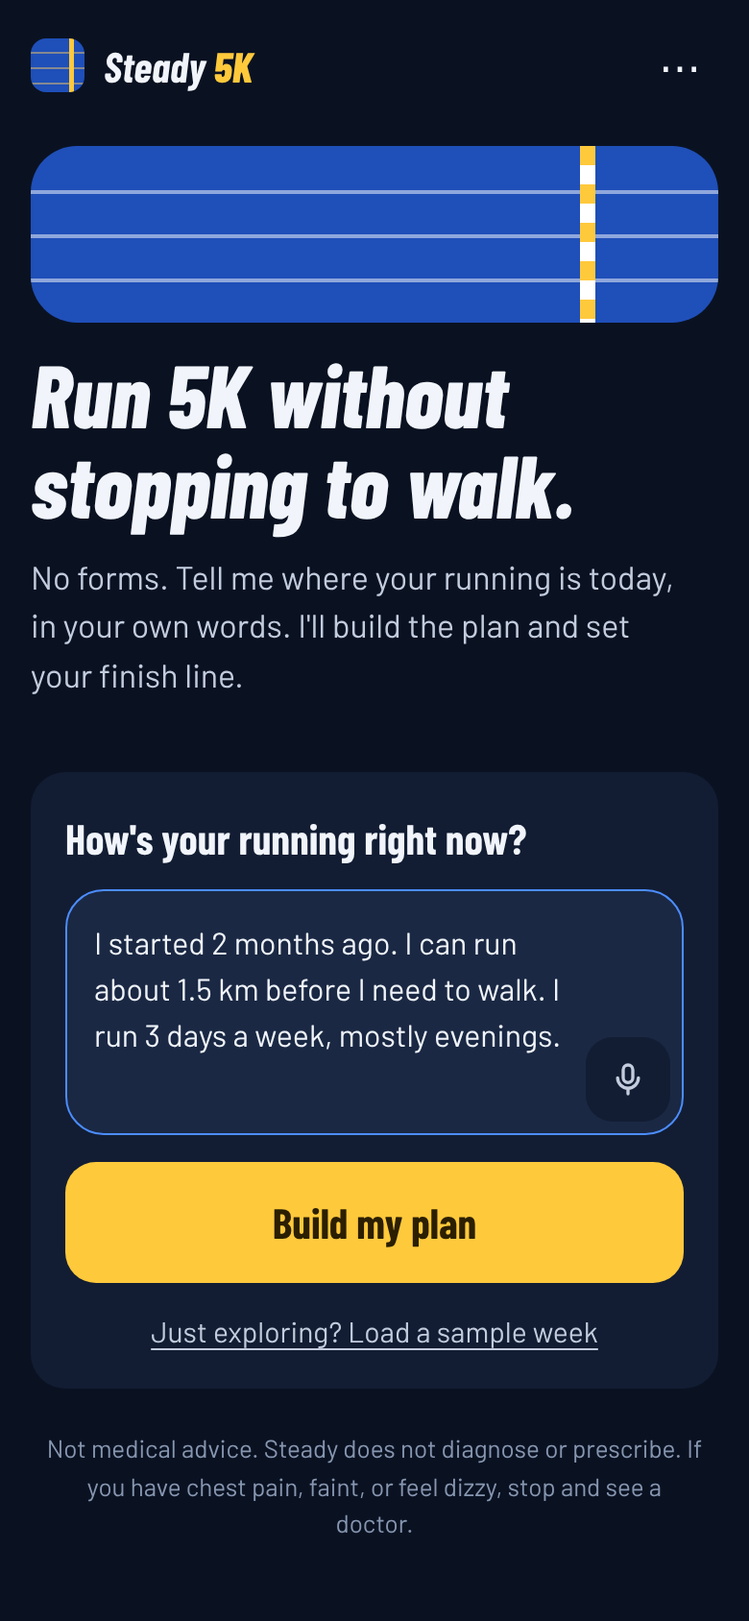
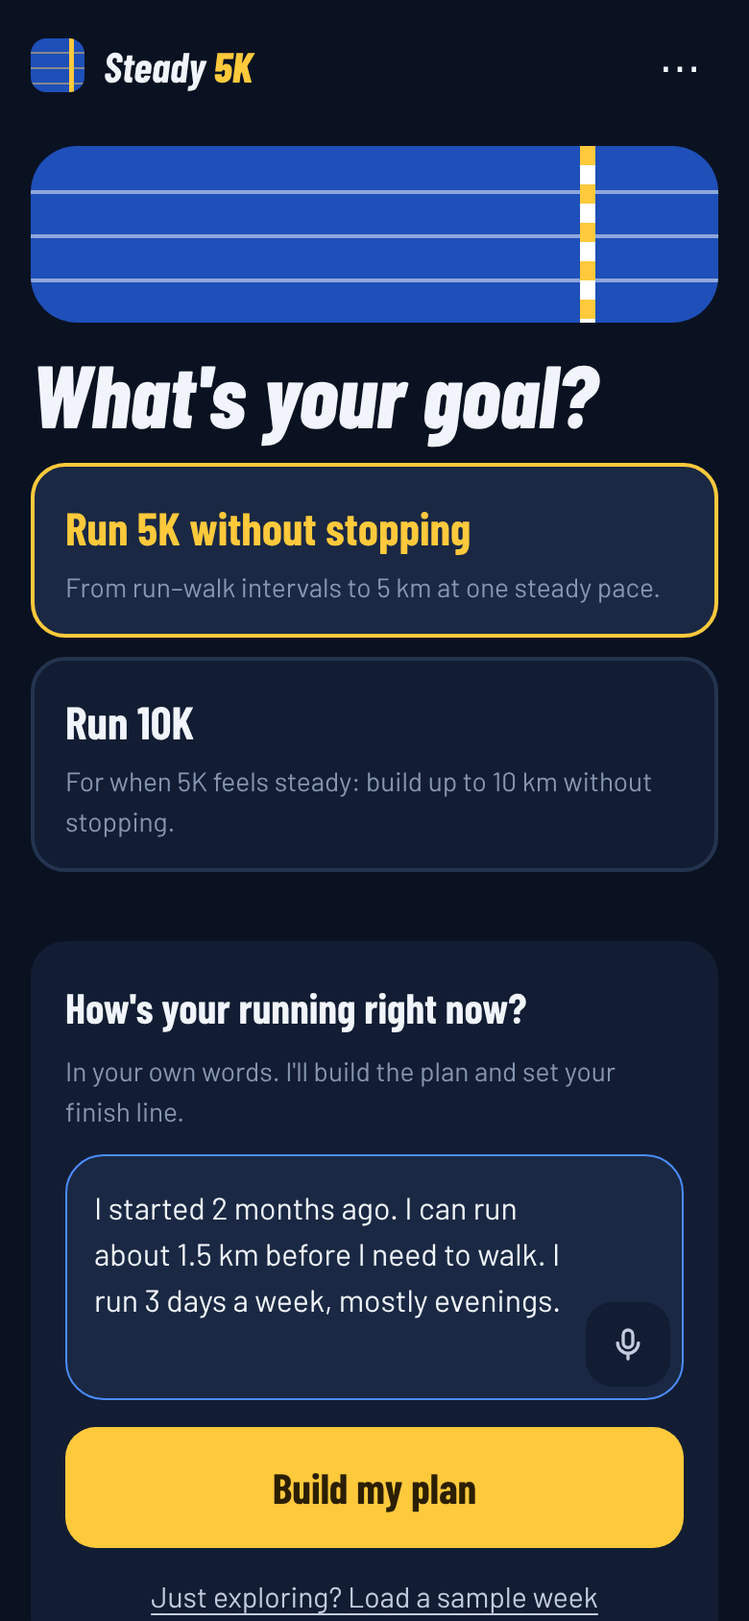
Goals: pick 5K non-stop or 10K at setup, save each goal's progress, choose a goal on return; 10K plan ladder
Claude-Session: https://claude.ai/code/session_01KnAXkYM5bv2tZhbofiWiib

diff --git a/app.js b/app.js
@@ -3,19 +3,34 @@
 (() => {
   'use strict';
 
-  // ---------- Plan ladder (written for this project) ----------
-  const STEPS = [
-    null,
-    { run: 1, walk: 1.5, reps: 8 }, { run: 1.5, walk: 1.5, reps: 7 }, { run: 2, walk: 1.5, reps: 6 },
-    { run: 3, walk: 1.5, reps: 5 }, { run: 4, walk: 1.5, reps: 4 }, { run: 5, walk: 1, reps: 4 },
-    { run: 7, walk: 1, reps: 3 }, { run: 9, walk: 1, reps: 3 }, { run: 12, walk: 1, reps: 2 },
-    { run: 15, walk: 1, reps: 2 }, { nonstop: '20 min' }, { nonstop: '25 min' }, { nonstop: '5 km' },
-  ];
-  const LAST = 13;
+  // ---------- Goals and their plan ladders (written for this project) ----------
+  // Rizwan's own words: "run a full 5K at a single, steady pace without stopping… eventually stretch it to 10K."
+  const GOALS = {
+    '5k': {
+      title: 'Run 5K without stopping', short: '5K non-stop', tape: '5K',
+      blurb: 'From run–walk intervals to 5 km at one steady pace.',
+      steps: [null,
+        { run: 1, walk: 1.5, reps: 8 }, { run: 1.5, walk: 1.5, reps: 7 }, { run: 2, walk: 1.5, reps: 6 },
+        { run: 3, walk: 1.5, reps: 5 }, { run: 4, walk: 1.5, reps: 4 }, { run: 5, walk: 1, reps: 4 },
+        { run: 7, walk: 1, reps: 3 }, { run: 9, walk: 1, reps: 3 }, { run: 12, walk: 1, reps: 2 },
+        { run: 15, walk: 1, reps: 2 }, { nonstop: '20 min' }, { nonstop: '25 min' },
+        { nonstop: '5 km', final: true, mins: 35, km: 5 }],
+    },
+    '10k': {
+      title: 'Run 10K', short: '10K', tape: '10K',
+      blurb: 'For when 5K feels steady: build up to 10 km without stopping.',
+      steps: [null,
+        { nonstop: '30 min' }, { nonstop: '35 min' }, { nonstop: '40 min' }, { nonstop: '45 min' },
+        { nonstop: '50 min' }, { nonstop: '55 min' }, { nonstop: '60 min' },
+        { nonstop: '10 km', final: true, mins: 70, km: 10 }],
+    },
+  };
+  let GOAL = GOALS['5k'], STEPS = GOAL.steps, LAST = STEPS.length - 1;
+  function useGoal(id) { GOAL = GOALS[id] || GOALS['5k']; STEPS = GOAL.steps; LAST = STEPS.length - 1; }
   const SESSIONS_PER_STEP = 2;
   const stepText = (n) => {
     const s = STEPS[n];
-    if (s.nonstop) return n === LAST ? 'Run 5 km without stopping 🏁' : `Run ${s.nonstop} without stopping`;
+    if (s.nonstop) return s.final ? `Run ${s.nonstop} without stopping 🏁` : `Run ${s.nonstop} without stopping`;
     return `Run ${s.run} min · walk ${s.walk} min × ${s.reps}`;
   };
 
@@ -30,7 +45,13 @@
   const KEY = 'steady5k:v1';
   const load = () => { try { return JSON.parse(localStorage.getItem(KEY)) || null; } catch { return null; } };
   let S = load();
-  const save = () => { try { localStorage.setItem(KEY, JSON.stringify(S)); } catch {} };
+  // Each saved goal keeps its own place in its plan; check-ins (food, water, sleep) are shared.
+  const GOAL_FIELDS = ['step', 'atStep', 'runsPerWeek', 'done', 'nextRest', 'lastChangeDay', 'created', 'intro'];
+  function stash() { if (!S || !S.goal) return; S.goals = S.goals || {}; S.goals[S.goal] = Object.fromEntries(GOAL_FIELDS.map((k) => [k, S[k]])); }
+  function activate(id) { stash(); Object.assign(S, S.goals[id]); S.goal = id; useGoal(id); save(); }
+  if (S && !S.goal) { S.goal = '5k'; stash(); } // older saves had one goal
+  if (S) useGoal(S.goal);
+  const save = () => { try { stash(); localStorage.setItem(KEY, JSON.stringify(S)); } catch {} };
 
   // ---------- Helpers ----------
   const $ = (id) => document.getElementById(id);
@@ -131,7 +152,8 @@
     const recent = S.logs.slice(-4).map((l) => ({ date: l.date, said: l.text.slice(0, 200), action: l.parsed?.plan_action, red_flag: l.parsed?.red_flag }));
     return {
       today: dayKey(), time: new Date().toTimeString().slice(0, 5),
-      next_session: S.nextRest ? 'Rest day' : stepText(S.step), plan_step: `${S.step}/13`, sessions_done_at_step: `${S.atStep}/${SESSIONS_PER_STEP}`,
+      goal: GOAL.title, plan_ladder: STEPS.slice(1).map((_, i) => `${i + 1} ${stepText(i + 1)}`).join('; '),
+      next_session: S.nextRest ? 'Rest day' : stepText(S.step), plan_step: `${S.step}/${LAST}`, sessions_done_at_step: `${S.atStep}/${SESSIONS_PER_STEP}`,
       ramadan_mode: S.ramadan, days_since_last_run: daysSinceRun(), runs_per_week: S.runsPerWeek,
       paused_for_red_flag: !!S.redFlag, recent_checkins: recent,
     };
@@ -169,7 +191,7 @@
   // ---------- Full session breakdown (general guidance, not medical advice) ----------
   function sessionMinutes(n) {
     const s = STEPS[n];
-    if (s.nonstop) return n === LAST ? 35 : parseInt(s.nonstop, 10);
+    if (s.nonstop) return s.mins || parseInt(s.nonstop, 10);
     return Math.round(s.reps * (s.run + s.walk) - s.walk);
   }
   function sessionPlan(n, mode) {
@@ -199,7 +221,7 @@
     const s = STEPS[n];
     const main = s.nonstop
       ? [
-          n === LAST ? 'Run 5 km at one steady, easy pace. Start slower than you think you need to.' : `Run ${s.nonstop} without stopping, at an easy pace.`,
+          s.final ? `Run ${s.nonstop} at one steady, easy pace. Start slower than you think you need to.` : `Run ${s.nonstop} without stopping, at an easy pace.`,
           'Easy pace = you can still speak in short sentences. If you can only gasp single words, slow down.',
           'If you really must walk, walk 1 minute and then carry on. It still counts.',
         ]
@@ -218,17 +240,10 @@
     return warm + block('Main run', `${sessionMinutes(n)} min`, main) + cool + `<div class="blk tips"><b>Tips</b><ul>${li(tips)}</ul></div>`;
   }
 
-  function progressNote() {
-    const left = SESSIONS_PER_STEP - S.atStep;
-    const runs = left === 1 ? 'One more good run' : `${left} good runs`;
-    if (S.step === LAST) return `Last step: run 5 km without stopping and you have reached the finish line. Planned for ${S.runsPerWeek} runs a week.`;
-    return `You are on step ${S.step} of 13. ${runs} at this step and you move up to step ${S.step + 1}. Planned for ${S.runsPerWeek} runs a week.`;
-  }
-
   function stepHTML(n) {
     const st = STEPS[n];
     const fmt = (m) => `${Math.floor(m)}:${String(Math.round((m % 1) * 60)).padStart(2, '0')}`;
-    if (st.nonstop) return `<span class="sw"><b>${n === LAST ? '5 km' : st.nonstop}</b><small>without stopping</small></span>`;
+    if (st.nonstop) return `<span class="sw"><b>${st.nonstop}</b><small>without stopping</small></span>`;
     return `<span class="sw"><b>${fmt(st.run)}</b><small>run</small></span><span class="sw walk"><b>${fmt(st.walk)}</b><small>walk</small></span><span class="sw reps"><b>×${st.reps}</b><small>rounds</small></span>`;
   }
 
@@ -236,8 +251,9 @@
   let tab = 'today';
   function show(view) {
     $('onboard').hidden = view !== 'onboard';
+    $('goals').hidden = view !== 'goals';
     $('main').hidden = view !== 'main';
-    $('ramadanBtn').hidden = view === 'onboard';
+    $('ramadanBtn').hidden = view !== 'main';
   }
   function setTab(t) {
     tab = t;
@@ -251,7 +267,7 @@
   // Planned running distance for a step, at an easy beginner pace of about 7 min per km.
   function planKm(n) {
     const st = STEPS[n];
-    if (n === LAST) return 5;
+    if (st.final) return st.km;
     const mins = st.nonstop ? parseInt(st.nonstop, 10) : st.run * st.reps;
     return Math.max(1, Math.round((mins / 7) * 10) / 10);
   }
@@ -270,6 +286,7 @@
     show('main');
     $('ramadanBtn').setAttribute('aria-pressed', String(!!S.ramadan));
     $('dayLabel').textContent = new Date().toLocaleDateString('en-IN', { weekday: 'long', day: 'numeric', month: 'long' });
+    $('goalName').textContent = GOAL.title;
     $('flagBanner').hidden = !S.redFlag;
 
     // Rings: run, water, sleep
@@ -307,10 +324,12 @@
     $('ringText').textContent = S.step;
     $('marks').innerHTML = Array.from({ length: LAST }, (_, i) => `<i class="${i + 1 < S.step ? 'done' : i + 1 === S.step ? 'now' : ''}" style="left:${(i / (LAST - 1)) * 100}%"></i>`).join('');
     $('runner').style.setProperty('--x', pct + '%');
-    $('track').setAttribute('aria-label', `Step ${S.step} of 13 on the way to 5K`);
-    $('finishLead').textContent = S.done ? 'You did it:' : '5K non-stop by';
-    $('finishDate').textContent = S.done ? '5K non-stop' : fmtDate(targetDate());
-    $('finishNote').textContent = S.done ? 'Next goal: 10K. Ask the coach when you are ready.' : '';
+    $('track').setAttribute('aria-label', `Step ${S.step} of ${LAST} on the way to ${GOAL.short}`);
+    $('tapeLabel').textContent = GOAL.tape;
+    $('ladderTitle').textContent = `All ${LAST} steps`;
+    $('finishLead').textContent = S.done ? 'You did it:' : `${GOAL.short} by`;
+    $('finishDate').textContent = S.done ? GOAL.short : fmtDate(targetDate());
+    $('finishNote').textContent = S.done ? (S.goal === '5k' ? 'Next goal: 10K. Add it from your goals.' : 'Keep running for fun, and pick a new goal when you like.') : '';
     $('finishNote').hidden = !S.done;
     $('planLabel').textContent = S.redFlag ? 'Paused' : S.nextRest ? 'Rest day' : `Next run: ${stepText(S.step)}`;
     $('nextPlan').innerHTML = S.redFlag ? '<p class="small">No session until you have seen a doctor about the warning sign, or you feel completely fine.</p>'
@@ -348,13 +367,46 @@
   }
 
   // ---------- Actions ----------
+  // ---------- Goals: pick, save, switch ----------
+  let pickedGoal = '5k';
+  function renderGoalChoice() {
+    $('goalChoice').innerHTML = Object.entries(GOALS).map(([id, g]) => {
+      const have = S?.goals?.[id];
+      return `<button class="goal-opt" role="radio" aria-checked="${id === pickedGoal}" data-goal="${id}" ${have ? 'disabled' : ''}>
+        <b>${g.title}</b><span>${have ? 'Already one of your goals' : g.blurb}</span></button>`;
+    }).join('');
+  }
+  function openSetup() {
+    const free = Object.keys(GOALS).find((id) => !S?.goals?.[id]);
+    if (!free) { toast('You already have both goals saved.'); return; }
+    pickedGoal = free; renderGoalChoice();
+    $('onBack').hidden = !S; $('onSample').hidden = !!S;
+    $('onText').value = '';
+    show('onboard'); window.scrollTo(0, 0);
+  }
+  function renderGoals() {
+    show('goals');
+    $('goalList').innerHTML = Object.entries(S.goals).map(([id, g]) => {
+      useGoal(id);
+      const st = S.goal === id ? S : g;
+      const prog = st.done ? 'Finished 🏁' : `Step ${st.step} of ${LAST}`;
+      return `<button class="goal-card" data-goal="${id}"><span class="g-tape">${GOALS[id].tape}</span><span class="g-text"><b>${GOALS[id].title}</b><span>${prog}</span></span><span class="g-go" aria-hidden="true">›</span></button>`;
+    }).join('');
+    useGoal(S.goal);
+    $('addGoal').hidden = Object.keys(GOALS).every((id) => S.goals[id]);
+  }
+
   async function onboard() {
     const text = $('onText').value.trim();
     if (!text) { toast('Tell me a little about your running first.'); return; }
     $('onGo').disabled = true; $('onGo').textContent = 'Building your plan…';
-    const r = await ai('onboard', text, { today: dayKey() });
-    S = { v: 1, created: dayKey(), step: clamp(+r.start_step || 3, 1, LAST), atStep: 0, runsPerWeek: clamp(+r.runs_per_week || 3, 2, 5), ramadan: !!r.ramadan, logs: [], intro: text };
-    save();
+    useGoal(pickedGoal);
+    const r = await ai('onboard', text, { today: dayKey(), goal: GOAL.title, plan_ladder: STEPS.slice(1).map((_, i) => `${i + 1} ${stepText(i + 1)}`).join('; ') });
+    const fresh = { step: clamp(+r.start_step || 1, 1, LAST), atStep: 0, runsPerWeek: clamp(+r.runs_per_week || 3, 2, 5), done: false, nextRest: false, lastChangeDay: null, created: dayKey(), intro: text };
+    if (!S) S = { v: 2, logs: [], ramadan: !!r.ramadan, goals: {} };
+    else stash();
+    S.goals[pickedGoal] = fresh;
+    Object.assign(S, fresh); S.goal = pickedGoal;
     $('onGo').disabled = false; $('onGo').textContent = 'Build my plan';
     S.morning = { date: dayKey(), message: r.reply || `Plan ready. Start with: ${stepText(S.step)}.` }; save();
     renderToday(); setTab('today');
@@ -392,7 +444,7 @@
     const d = (n) => dayKey(addDays(new Date(), -n));
     const L = (n, text, log, reply, action) => ({ date: d(n), at: Date.now() - n * 864e5, text, note: '', parsed: { log: { meals: [], symptoms: [], ...log }, reply, plan_action: action, red_flag: false } });
     S = {
-      v: 1, created: d(6), step: 5, atStep: 1, runsPerWeek: 3, ramadan: false, sample: true,
+      v: 2, goal: '5k', goals: {}, created: d(6), step: 5, atStep: 1, runsPerWeek: 3, ramadan: false, sample: true,
       logs: [
         L(6, 'Ran 2k, walked 3 times. 2 bottles water. Slept 1am to 7am. Rice, dal, fish curry for lunch.', { run_km: 2, walk_breaks: 3, water_l: 2, sleep_h: 6, meals: [{ item: 'rice, dal, fish curry', kcal_low: 550, kcal_high: 800 }] }, 'Solid start. Try to get one more bottle of water in tomorrow.', 'repeat'),
         L(4, 'aaj 2.5k bhaga, 2 baar ruka, paani 3 bottle, 7 ghante soya', { run_km: 2.5, walk_breaks: 2, water_l: 3, sleep_h: 7 }, 'Fewer stops than last time. Good water day too.', 'up'),
@@ -400,6 +452,7 @@
         L(1, 'Ran 2.8k, back felt a bit stiff after. 2.5 L water.', { run_km: 2.8, water_l: 2.5, symptoms: ['back stiffness'] }, 'Good run. Keep tomorrow easy, and see a physio if the back stiffness keeps coming back.', 'repeat'),
       ],
     };
+    useGoal('5k');
     S.morning = { date: dayKey(), message: 'Back was stiff yesterday, so today is your normal session, nice and easy. Get 3 bottles of water in before evening.' };
     save(); $('menu').hidden = true; renderToday(); setTab('today'); morning(true);
   }
@@ -425,6 +478,11 @@
   // ---------- Wire up ----------
   $('onGo').addEventListener('click', onboard);
   $('onSample').addEventListener('click', loadSample);
+  $('goalChoice').addEventListener('click', (e) => { const b = e.target.closest('[data-goal]'); if (!b || b.disabled) return; pickedGoal = b.dataset.goal; renderGoalChoice(); });
+  $('onBack').addEventListener('click', () => { S.goals && Object.keys(S.goals).length > 1 ? renderGoals() : (renderToday(), setTab('today')); });
+  $('goalList').addEventListener('click', (e) => { const b = e.target.closest('[data-goal]'); if (!b) return; if (b.dataset.goal !== S.goal) { activate(b.dataset.goal); S.morning = null; } renderToday(); setTab('today'); morning(); });
+  $('addGoal').addEventListener('click', openSetup);
+  $('goalSwitch').addEventListener('click', renderGoals);
   $('ciSend').addEventListener('click', checkin);
   $('ciText').addEventListener('input', (e) => autoGrow(e.target));
   $('ciText').addEventListener('keydown', (e) => { if (e.key === 'Enter' && !e.shiftKey && !matchMedia('(pointer: coarse)').matches) { e.preventDefault(); checkin(); } });
@@ -448,7 +506,8 @@
   }
 
   function start() {
-    if (!S) { show('onboard'); return; }
+    if (!S) { pickedGoal = '5k'; renderGoalChoice(); $('onBack').hidden = true; $('onSample').hidden = false; show('onboard'); return; }
+    if (S.goals && Object.keys(S.goals).length > 1) { renderGoals(); return; } // more than one goal: ask which one today
     renderToday(); setTab('today'); morning();
   }
   start();

diff --git a/index.html b/index.html
@@ -31,12 +31,14 @@
     <!-- ONBOARDING -->
     <main id="onboard" class="view" hidden>
       <section class="hero">
+        <button id="onBack" class="btn-link back" hidden>Back</button>
         <div class="hero-lane" aria-hidden="true"><i></i><i></i><i></i><span class="hero-tape"></span></div>
-        <h1>Run 5K without stopping to walk.</h1>
-        <p class="lede">No forms. Tell me where your running is today, in your own words. I'll build the plan and set your finish line.</p>
+        <h1>What's your goal?</h1>
+        <div class="goal-choice" id="goalChoice" role="radiogroup" aria-label="Your goal"></div>
       </section>
       <section class="card">
         <label for="onText" class="label">How's your running right now?</label>
+        <p class="small field-hint">In your own words. I'll build the plan and set your finish line.</p>
         <div class="composer composer-lg">
           <textarea id="onText" rows="4" placeholder="e.g. I started 2 months ago, I can run about 1.5 km before I need to walk. I run 3 days a week, mostly evenings."></textarea>
           <button class="mic" data-target="onText" aria-label="Speak instead"><svg viewBox="0 0 24 24" width="20" height="20" aria-hidden="true"><rect x="9" y="3" width="6" height="11" rx="3" fill="none" stroke="currentColor" stroke-width="2"/><path d="M5.5 11a6.5 6.5 0 0 0 13 0M12 17.5V21" fill="none" stroke="currentColor" stroke-width="2" stroke-linecap="round"/></svg></button>
@@ -47,12 +49,20 @@
       <p class="notice">Not medical advice. Steady does not diagnose or prescribe. If you have chest pain, faint, or feel dizzy, stop and see a doctor.</p>
     </main>
 
+    <!-- GOALS: pick one of your saved goals -->
+    <main id="goals" class="view" hidden>
+      <h1>Which goal today?</h1>
+      <div id="goalList" class="goal-list"></div>
+      <button id="addGoal" class="btn-link left">Add another goal</button>
+    </main>
+
     <!-- MAIN APP: four tabs -->
     <div id="main" hidden>
       <!-- TODAY -->
       <main id="tab-today" class="panel" aria-labelledby="t-today">
         <p id="dayLabel" class="day-label"></p>
         <h1 class="day-title">Today</h1>
+        <button id="goalSwitch" class="goal-chip"><span>Goal</span><b id="goalName">Run 5K without stopping</b><em>Change</em></button>
 
         <section id="flagBanner" class="flag" hidden>
           <strong>Training paused.</strong>
@@ -94,7 +104,7 @@
             <div class="lane-lines" aria-hidden="true"></div>
             <div class="marks" id="marks" aria-hidden="true"></div>
             <div class="runner" id="runner"><span class="bib">Step</span><b id="ringText">1</b></div>
-            <div class="tape" aria-hidden="true"><span>5K</span></div>
+            <div class="tape" aria-hidden="true"><span id="tapeLabel">5K</span></div>
           </div>
         </section>
         <section class="card">
@@ -102,7 +112,7 @@
           <div id="nextPlan"></div>
         </section>
         <section class="card">
-          <h3 class="sec-title">All 13 steps</h3>
+          <h3 class="sec-title" id="ladderTitle">All steps</h3>
           <ol class="ladder" id="ladder"></ol>
         </section>
       </main>

diff --git a/style.css b/style.css
@@ -204,3 +204,24 @@ h1 { font-size: 46px; font-weight: 800; font-style: italic; margin: 14px 0 12px;
 
 @media (prefers-reduced-motion: reduce) { .runner, .r-fg { transition: none; } .mic.on { animation: none; } }
 @media (max-width: 360px) { h1 { font-size: 38px; } .finish-title strong { font-size: 42px; } .sw b { font-size: 38px; } }
+
+/* ---------- Goals ---------- */
+.goal-choice { display: grid; gap: 10px; margin: 4px 0 18px; }
+.goal-opt { text-align: left; border: 2px solid var(--line); background: var(--surface); border-radius: var(--r-md); padding: 14px 16px; display: grid; gap: 2px; }
+.goal-opt b { font-family: var(--display); font-size: 24px; font-weight: 700; }
+.goal-opt span { font-size: 14px; color: var(--muted); }
+.goal-opt[aria-checked="true"] { border-color: var(--bib); background: var(--surface-2); }
+.goal-opt[aria-checked="true"] b { color: var(--bib); }
+.goal-opt:disabled { opacity: .5; cursor: default; }
+.field-hint { margin: -4px 0 12px; }
+.goal-list { display: grid; gap: 12px; margin: 6px 0 8px; }
+.goal-card { display: grid; grid-template-columns: 64px 1fr auto; gap: 14px; align-items: center; text-align: left; border: 0; background: var(--surface); border-radius: var(--r-lg); padding: 14px; }
+.goal-card .g-tape { height: 64px; border-radius: 14px; background: var(--track); display: grid; place-items: center; font-family: var(--display); font-weight: 800; font-style: italic; font-size: 22px; color: var(--bib); box-shadow: inset -6px 0 0 var(--bib); }
+.g-text b { display: block; font-family: var(--display); font-size: 24px; font-weight: 700; }
+.g-text span { font-size: 14px; color: var(--muted); }
+.g-go { font-size: 30px; color: var(--muted); }
+.goal-chip { display: flex; align-items: baseline; gap: 8px; width: 100%; text-align: left; border: 0; background: transparent; padding: 0; margin: -6px 0 14px; color: var(--ink-2); }
+.goal-chip span { font-size: 14px; color: var(--muted); font-weight: 600; }
+.goal-chip b { font-weight: 700; }
+.goal-chip em { margin-left: auto; font-style: normal; font-size: 14px; color: var(--c-run); font-weight: 700; }
+.btn-link.back { width: auto; padding: 4px 0 8px; text-decoration: none; color: var(--c-run); font-weight: 700; }

diff --git a/api/coach.js b/api/coach.js
@@ -11,7 +11,7 @@ const MODELS = [
   { id: 'gemini-flash-latest', thinking: null },
 ];
 
-const PLAN_LADDER = `Plan steps (1 to 13):
+const PLAN_LADDER = `Default plan, goal "Run 5K without stopping" (steps 1 to 13):
 1 run 1 min / walk 1.5 min x 8
 2 run 1.5 / walk 1.5 x 7
 3 run 2 / walk 1.5 x 6
@@ -24,7 +24,8 @@ const PLAN_LADDER = `Plan steps (1 to 13):
 10 run 15 / walk 1 x 2
 11 run 20 min non-stop
 12 run 25 min non-stop
-13 run 5 km non-stop (the finish line)`;
+13 run 5 km non-stop (the finish line)
+If the context names a different goal (for example "Run 10K") it also gives that goal's plan_ladder: use that ladder and that goal instead.`;
 
 const SYSTEM = `You are "Steady", the coach inside a prototype running app built for one person: Rizwan, 22, a college student in India who started running two months ago.
 His goal: run 5 km at one steady pace without stopping to walk, then 10 km. His struggles: stamina and back pain.
@@ -51,7 +52,7 @@ function prompt(mode, text, ctx) {
   if (mode === 'onboard') {
     return `He is setting up the app and describes his running now: """${text}"""
 Context: ${c}
-Choose the plan step he can already do comfortably (be conservative; if unclear choose a lower step). Guess runs_per_week from what he says (default 3, clamp 2-5). Set ramadan=true only if he says he is fasting now.
+His goal and its plan ladder are in the context. Choose the step of THAT ladder he can already do comfortably (be conservative; if unclear choose a lower step; if the goal is 10K and he cannot yet run 30 minutes non-stop, choose step 1 and say the 5K goal may suit him first). Guess runs_per_week from what he says (default 3, clamp 2-5). Set ramadan=true only if he says he is fasting now.
 Return JSON: {"start_step": integer 1-13, "runs_per_week": integer, "ramadan": boolean, "reply": string (max 2 sentences: confirm where he starts and that the first session is ready)}`;
   }
   if (mode === 'morning') {

diff --git a/REPORT.md b/REPORT.md
@@ -108,7 +108,7 @@ Every screen shows a "not medical advice" notice, and only made-up data is used.
 | ID | Feature | Build now / Later / Never | Reason |
 |---|---|---|---|
 | F01 | Food photo to calories | Later | Rizwan ranked calories last, his food is home-cooked and easy to describe in words, and photo estimates of regional dishes are unreliable (D06, D11). Respondent A asked for it, so it is the first thing to add if users want more food help. |
-| F02 | Profile and goals | Build now (changed) | No form and no BMI: he describes his running in his own words and the AI sets his start step and finish-line date. The "how I want to look" reference image is **Never**: body-image targets do not fit his goal and carry real harm. |
+| F02 | Profile and goals | Build now (changed) | No profile form and no BMI. He picks one of the two goals he named, **5K non-stop** or **10K**, then describes his running in his own words; the AI sets his start step and finish date. Goals are saved, each with its own progress, so he just taps one when he opens the app. Open-ended goals ("get healthy") are left out on purpose (Q2). The "how I want to look" image is **Never**: body-image targets do not fit his goal and carry real harm. |
 | F03 | Activity tracking | Build now (running and steps) | Run distance, time and walk breaks come from his message. Steps are logged from what he reads off his phone ("7k steps"), because a browser cannot read the phone's step counter; he left steps out of his ranking, so they are shown but never drive the plan. Cycling: Never. |
 | F04 | Diet plan | Never (calorie deficit) / Build now (water) | He wants to become a runner, not lose weight, and a deficit plan for a fasting 22-year-old is a risk. The daily water target stays, because thirst is his biggest problem. |
 | F05 | Progress tracker | Build now (changed) | Progress means steps towards 5K non-stop and a finish-line date (Q1, reason 2). The fasting tracker becomes Ramadan mode (N01). Supplements and reward points: **Never** (Q1, reason 3). |
@@ -137,13 +137,13 @@ That is 9 of 18 class features built in some form, most of them reshaped, plus 6
 
 **The core experience**
 
-*First two minutes.* Rizwan opens the link and sees one question: "How's your running right now?" He types or says "I can run about 1.5 km before I need to walk, 3 days a week." In the live test the AI placed him on step 3 of 13 (run 2 minutes, walk 1.5 minutes, six times), set a finish line of mid-December for 5K non-stop, and confirmed where he starts. No sign-up, no form.
+*First two minutes.* Rizwan opens the link and picks his goal (5K non-stop, or 10K), then answers one question: "How's your running right now?" He types or says "I can run about 1.5 km before I need to walk, 3 days a week." In the live test the AI placed him on step 3 of 13 (run 2 minutes, walk 1.5 minutes, six times), set a finish line of mid-December for 5K non-stop, and confirmed where he starts. No sign-up, no form.
 
 *A normal day.* The coach's message is waiting when he opens the app, above three goal rings for run, water and sleep; the Plan tab gives the full warm-up, run and cool-down. In the evening he sends one check-in, typed or spoken: "ran 2.5k, walked twice, 7k steps, 3 bottles water, slept 1 to 7, rice and fish curry for lunch." The app fills in run, steps, water, sleep and an approximate calorie range, replies in two lines, and moves the plan up, holds it, or eases off. If he reports back pain, tomorrow gets easier; if he reports chest tightness, training pauses.
 
 *Screenshots.* Rendered from the deployed code (final design), replaying the replies the live AI gave at steady-5k.vercel.app on 31 October.
 
-| 1. Setup: one question, no form | 2. Today: goal rings for run, water and sleep | 3. Coach tab: evening check-in, logged and answered |
+| 1. Setup: pick a goal, then one question | 2. Today: goal rings for run, water and sleep | 3. Coach tab: evening check-in, logged and answered |
 |---|---|---|
 | <img src="docs/screenshots/1-setup.png" width="230"> | <img src="docs/screenshots/2-today.png" width="230"> | <img src="docs/screenshots/3-checkin.png" width="230"> |
 | **4. Plan tab: finish line and full session** | **5. Ramadan mode switches on by itself** | **6. Red flag pauses training** |
